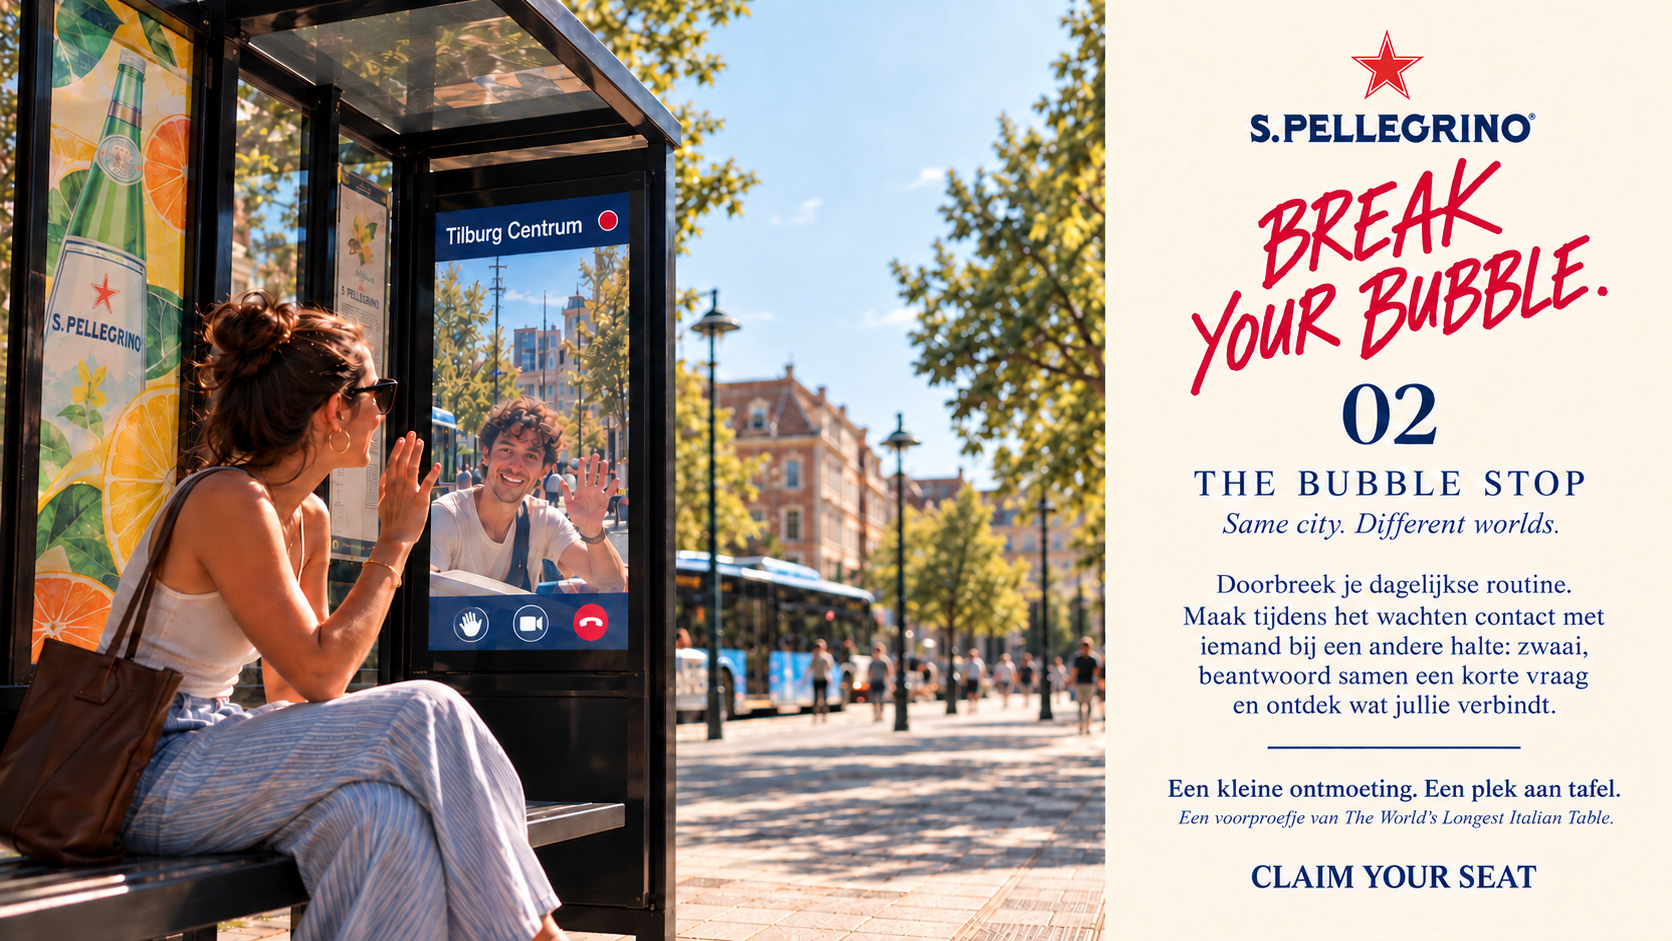
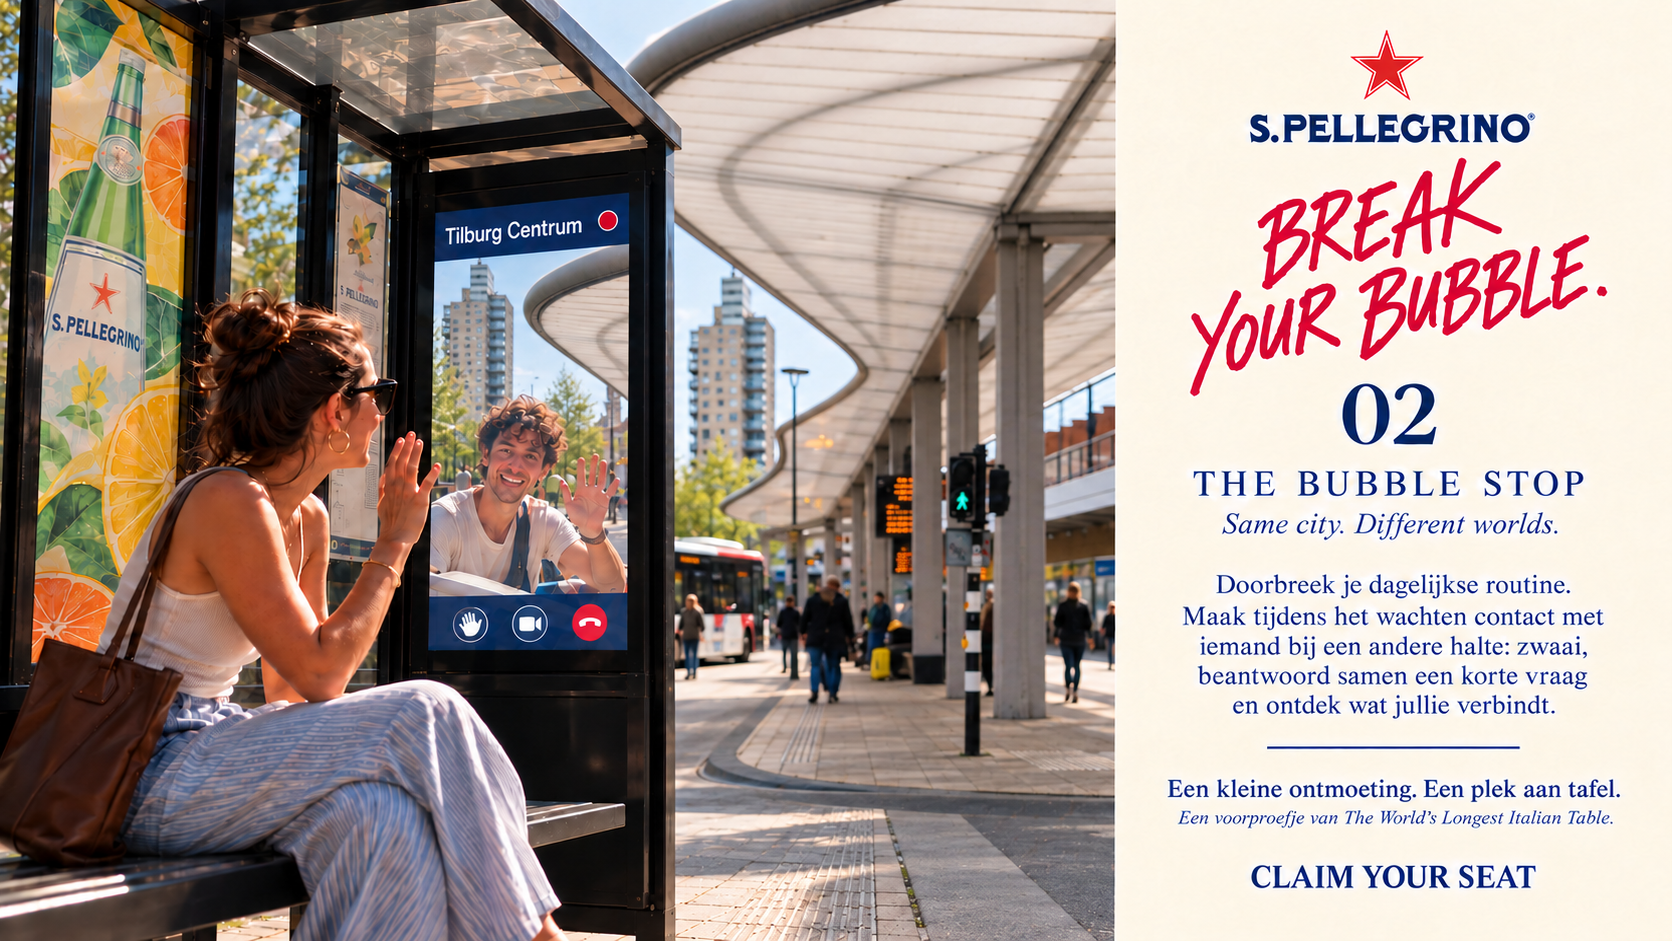
Place campaign mockup in referenced Tilburg station setting

diff --git a/facetime-prototype.html b/facetime-prototype.html
@@ -3,7 +3,7 @@
 
 /* Campagnepresentatie en schermbediening */
 .intro{max-width:1440px;margin:0 auto;padding:28px}.intro img{display:block;width:100%;border-radius:4px;box-shadow:0 16px 50px #002a5b12}.introbar{display:flex;align-items:center;justify-content:space-between;gap:20px;margin-top:20px}.introbar p{margin:0;font-size:14px;color:#566779}.intro .primary{padding:15px 27px;border-radius:4px}body:not(.started) main{display:none}.started .intro{display:none}.top{padding-bottom:24px}.device{border-radius:6px;border:7px solid #15232e}.view{height:470px}.self{border-radius:7px}.message{border-radius:4px;font-size:23px}.info h2{font-size:36px;letter-spacing:2px}.number{font:64px/1 Georgia,serif}.tagline{font:italic 21px Georgia,serif;color:var(--blue)!important}.chips{padding:0 18px 17px;margin:0;justify-content:center}.chip{font-size:12px;color:var(--cream);border-color:#fdf7eb66;padding:9px 13px}.chip:hover,.chip[aria-pressed=true]{background:var(--cream);color:var(--blue)}.hint{background:transparent;border-top:1px solid #002a5b33;border-bottom:1px solid #002a5b33;border-radius:0;padding:18px 0}.primary{border-radius:4px}.controls{padding-bottom:14px}.step{font-size:10px;letter-spacing:1.5px;color:#fdf7ebcc;text-align:center;padding:0 10px 12px}.end h2{font-size:42px}.end .primary{padding:12px 20px}.round:disabled{opacity:.4;cursor:default}.note{font-size:12px}.qrempty{border-radius:4px}.present .view{height:450px}@media(max-width:600px){.intro{padding:12px}.introbar{align-items:stretch;flex-direction:column}.introbar .primary{width:100%}.info h2{font-size:28px}.view{height:400px}.layout{gap:24px}.number{font-size:48px}}
-</style></head><body><section class="intro" aria-label="Campagneintroductie"><img src="poster-bubble-stop.png" alt="S.Pellegrino Break Your Bubble. 02 The Bubble Stop. Same city. Different worlds. Een kleine ontmoeting, een plek aan tafel."><div class="introbar"><p>Van een kleine begroeting naar samen aan tafel.<br>Bekijk hieronder hoe de schermervaring werkt.</p><button class="primary" id="start">Ontdek The Bubble Stop →</button></div></section><main><header class="top"><div class="brand"><span class="star">★</span>S.PELLEGRINO</div><div><div class="eyebrow">The Bubble Stop · versie 3</div><h1>Same city. Different worlds.</h1></div><a href="index.html" style="color:inherit">Alle versies ↗</a></header><div class="layout"><section class="device" aria-label="Videogesprek-stijl prototype"><div class="callbar"><div><div class="eyebrow">Live vanuit</div><div class="place">Tilburg Centrum</div></div><div class="status"><span class="dot"></span>DEMO</div></div><div class="view"><img class="remote" src="2ad45abaaea4bbb9.png" alt="Een demodeelnemer begroet je vanaf een tafel"><span class="demolabel">ANDERE DEELNEMER · DEMOBEELD</span><div class="self" id="self"><span class="empty">Jouw beeld<br>Camera staat uit</span><video id="preview" autoplay muted playsinline></video><small>JIJ · TILBURG STATION</small></div><div class="message" id="message" aria-live="polite">Een zwaai is genoeg.</div><div class="end" id="end"><div><div class="eyebrow">Different worlds. One moment.</div><h2>Een kleine ontmoeting.<br>Een plek aan tafel.</h2><p>Meer mensen ontmoeten?<br>Schuif aan bij The World’s Longest Italian Table.</p><div class="qrempty"><strong>CLAIM YOUR SEAT</strong><br>QR-uitnodiging<br><small>Inschrijflink nog niet gekoppeld</small></div><button class="primary" id="again" style="background:var(--cream);color:var(--blue)">Opnieuw beginnen</button></div></div></div><div class="controls"><button class="round" id="wave" aria-label="Zwaai naar de ander" title="Zwaai">👋</button><button class="round" id="camera" aria-label="Camera inschakelen" title="Camera inschakelen" aria-pressed="false"><svg viewBox="0 0 24 24" aria-hidden="true"><rect x="3" y="6" width="12" height="12" rx="3"/><path d="M15 10l6-3v10l-6-3"/></svg></button><button class="round hangup" id="leave" aria-label="Ontmoeting beëindigen" title="Stoppen"><svg viewBox="0 0 24 24" aria-hidden="true"><path d="M3 13c5-5 13-5 18 0l-2 4-5-2v-3h-4v3l-5 2z"/></svg></button></div><div class="step">ZWAAI · KIES EEN VRAAG · ONTDEK WAT JULLIE VERBINDT</div><div class="chips"><button class="chip" data-card="Waar kijk jij vandaag naar uit?">Vandaag</button><button class="chip" data-card="Waar zou jij graag samen eten?">Aan tafel</button><button class="chip" data-card="Een kleine glimlach kan al genoeg zijn.">Glimlach</button></div><div class="footline">Different worlds. One moment.</div></section><aside class="info"><div class="number">02</div><h2>THE BUBBLE STOP</h2><p class="tagline">Same city. Different worlds.</p><p>Jij wacht bij Tilburg Station. Iemand anders wacht in Tilburg Centrum. Begroet elkaar via het scherm — zonder geluid.</p><div class="hint"><b>Geen microfoon nodig.</b><br>Een zwaai, glimlach of korte gesprekskaart is genoeg. Je kunt altijd stoppen als je bus komt.</div><p id="cameraStatus" role="status">Camera uit. Klik op de camera als je jezelf wilt zien. De browser vraagt eerst toestemming.</p><button class="primary" id="present">Presentatiemodus</button><p class="note">Dit is een interactieve demo, geen echte verbinding tussen haltes. De andere deelnemer is een stilstaand AI-beeld. Je camera werkt alleen lokaal, zonder microfoon, opname of verzending. Kaartjes worden alleen op dit scherm getoond.</p><p class="qrnote">De locaties zijn voorbeelden binnen Tilburg. Een echte inschrijving en scanbare QR-code zijn nog niet gekoppeld.</p></aside></div><button class="back" id="back">Terug naar bediening</button><footer class="bottom"><span>BREAK YOUR BUBBLE · Video-call-stijl · Versie 3</span><span>Camera, begroeting, gesprekskaartjes en stoppen</span></footer></main><script>
+</style></head><body><section class="intro" aria-label="Campagneintroductie"><img src="poster-bubble-stop.png" alt="S.Pellegrino Break Your Bubble. 02 The Bubble Stop. Same city. Different worlds. Een kleine ontmoeting, een plek aan tafel."><div class="introbar"><p>Van een kleine begroeting naar samen aan tafel.<br>Bekijk hieronder hoe de schermervaring werkt. <a href="beeldbron.txt">Locatiereferentie &amp; beeldbewerking</a></p><button class="primary" id="start">Ontdek The Bubble Stop →</button></div></section><main><header class="top"><div class="brand"><span class="star">★</span>S.PELLEGRINO</div><div><div class="eyebrow">The Bubble Stop · versie 3</div><h1>Same city. Different worlds.</h1></div><a href="index.html" style="color:inherit">Alle versies ↗</a></header><div class="layout"><section class="device" aria-label="Videogesprek-stijl prototype"><div class="callbar"><div><div class="eyebrow">Live vanuit</div><div class="place">Tilburg Centrum</div></div><div class="status"><span class="dot"></span>DEMO</div></div><div class="view"><img class="remote" src="2ad45abaaea4bbb9.png" alt="Een demodeelnemer begroet je vanaf een tafel"><span class="demolabel">ANDERE DEELNEMER · DEMOBEELD</span><div class="self" id="self"><span class="empty">Jouw beeld<br>Camera staat uit</span><video id="preview" autoplay muted playsinline></video><small>JIJ · TILBURG STATION</small></div><div class="message" id="message" aria-live="polite">Een zwaai is genoeg.</div><div class="end" id="end"><div><div class="eyebrow">Different worlds. One moment.</div><h2>Een kleine ontmoeting.<br>Een plek aan tafel.</h2><p>Meer mensen ontmoeten?<br>Schuif aan bij The World’s Longest Italian Table.</p><div class="qrempty"><strong>CLAIM YOUR SEAT</strong><br>QR-uitnodiging<br><small>Inschrijflink nog niet gekoppeld</small></div><button class="primary" id="again" style="background:var(--cream);color:var(--blue)">Opnieuw beginnen</button></div></div></div><div class="controls"><button class="round" id="wave" aria-label="Zwaai naar de ander" title="Zwaai">👋</button><button class="round" id="camera" aria-label="Camera inschakelen" title="Camera inschakelen" aria-pressed="false"><svg viewBox="0 0 24 24" aria-hidden="true"><rect x="3" y="6" width="12" height="12" rx="3"/><path d="M15 10l6-3v10l-6-3"/></svg></button><button class="round hangup" id="leave" aria-label="Ontmoeting beëindigen" title="Stoppen"><svg viewBox="0 0 24 24" aria-hidden="true"><path d="M3 13c5-5 13-5 18 0l-2 4-5-2v-3h-4v3l-5 2z"/></svg></button></div><div class="step">ZWAAI · KIES EEN VRAAG · ONTDEK WAT JULLIE VERBINDT</div><div class="chips"><button class="chip" data-card="Waar kijk jij vandaag naar uit?">Vandaag</button><button class="chip" data-card="Waar zou jij graag samen eten?">Aan tafel</button><button class="chip" data-card="Een kleine glimlach kan al genoeg zijn.">Glimlach</button></div><div class="footline">Different worlds. One moment.</div></section><aside class="info"><div class="number">02</div><h2>THE BUBBLE STOP</h2><p class="tagline">Same city. Different worlds.</p><p>Jij wacht bij Tilburg Station. Iemand anders wacht in Tilburg Centrum. Begroet elkaar via het scherm — zonder geluid.</p><div class="hint"><b>Geen microfoon nodig.</b><br>Een zwaai, glimlach of korte gesprekskaart is genoeg. Je kunt altijd stoppen als je bus komt.</div><p id="cameraStatus" role="status">Camera uit. Klik op de camera als je jezelf wilt zien. De browser vraagt eerst toestemming.</p><button class="primary" id="present">Presentatiemodus</button><p class="note">Dit is een interactieve demo, geen echte verbinding tussen haltes. De andere deelnemer is een stilstaand AI-beeld. Je camera werkt alleen lokaal, zonder microfoon, opname of verzending. Kaartjes worden alleen op dit scherm getoond.</p><p class="qrnote">De locaties zijn voorbeelden binnen Tilburg. Een echte inschrijving en scanbare QR-code zijn nog niet gekoppeld.</p></aside></div><button class="back" id="back">Terug naar bediening</button><footer class="bottom"><span>BREAK YOUR BUBBLE · Video-call-stijl · Versie 3</span><span>Camera, begroeting, gesprekskaartjes en stoppen</span></footer></main><script>
 const $=id=>document.getElementById(id); $('start').onclick=()=>{document.body.classList.add('started');window.scrollTo(0,0);$('wave').focus()};let stream=null,busy=false,ended=false;
 function stop(){stream?.getTracks().forEach(t=>t.stop());stream=null;$('preview').srcObject=null;$('self').classList.remove('active');$('camera').setAttribute('aria-pressed','false');$('camera').setAttribute('aria-label','Camera inschakelen');$('camera').title='Camera inschakelen';$('cameraStatus').textContent='Camera uit. Er zijn geen beelden opgenomen of verstuurd.';}
 $('camera').onclick=async()=>{if(stream){stop();return}if(busy||ended)return;busy=true;$('camera').disabled=true;try{if(!navigator.mediaDevices?.getUserMedia)throw Error('unavailable');const acquired=await navigator.mediaDevices.getUserMedia({video:{facingMode:'user'},audio:false});if(ended){acquired.getTracks().forEach(t=>t.stop());return}stream=acquired;$('preview').srcObject=stream;await $('preview').play();$('self').classList.add('active');$('camera').setAttribute('aria-pressed','true');$('camera').setAttribute('aria-label','Camera uitschakelen');$('camera').title='Camera uitschakelen';$('cameraStatus').textContent='Je camera is actief, alleen op jouw apparaat. De microfoon blijft uit.';}catch(e){stop();$('cameraStatus').textContent='Camera niet beschikbaar of toestemming geweigerd. Je kunt de begroeting en kaartjes zonder camera gebruiken.';}finally{busy=false;$('camera').disabled=ended}};
